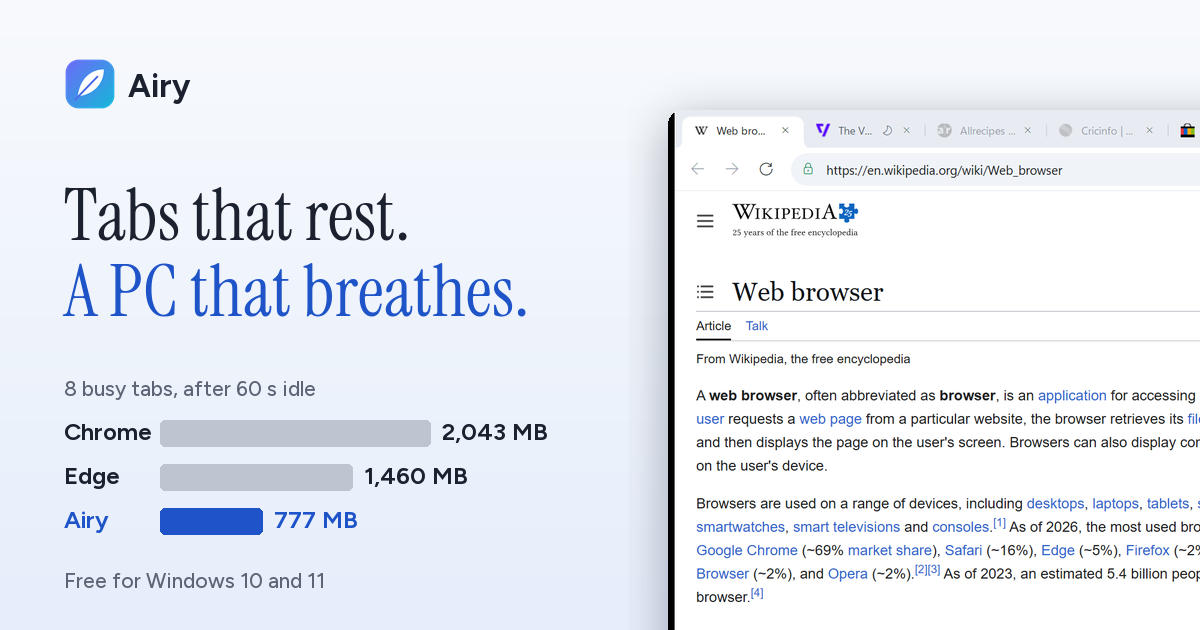
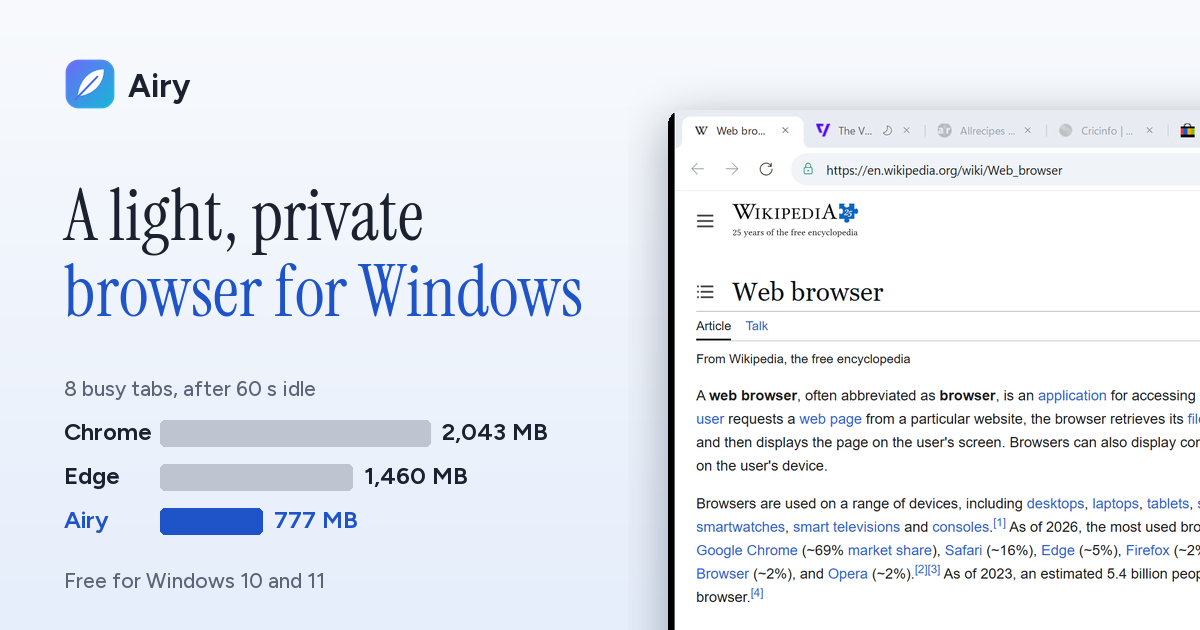
Plain copy: replace slogans with plain statements

Changed region(s): [[0.0308, 0.3016, 0.4933, 0.5127]]

diff --git a/index.html b/index.html
@@ -8,7 +8,7 @@
 <link rel="canonical" href="https://nishants-lab.github.io/airy/">
 <link rel="icon" type="image/png" href="favicon.png">
 <meta property="og:type" content="website">
-<meta property="og:title" content="Airy: tabs that rest, a PC that breathes">
+<meta property="og:title" content="Airy: a light, private browser for Windows">
 <meta property="og:description" content="A free, private browser for Windows. 8 busy tabs: 777 MB in Airy, 2,043 MB in Chrome, 1,460 MB in Edge.">
 <meta property="og:url" content="https://nishants-lab.github.io/airy/">
 <meta property="og:image" content="https://nishants-lab.github.io/airy/assets/og.png">
@@ -43,10 +43,10 @@
   <div class="wrap hero-grid">
     <div class="hero-head">
       <p class="kicker reveal">Free browser for Windows 10 and 11</p>
-      <h1 class="reveal"><span>Tabs that rest.</span> <em>A PC that breathes.</em></h1>
+      <h1 class="reveal"><span>Eight tabs in 777 MB.</span> <em>Chrome used 2,043 MB.</em></h1>
     </div>
     <div class="hero-copy">
-      <p class="lede reveal">Airy runs on the same Chromium engine as Chrome and Edge, so your sites work the same. The difference: background tabs go to sleep after 30 seconds, and ads and trackers are blocked from the first click.</p>
+      <p class="lede reveal">Airy runs on the same Chromium engine as Chrome and Edge, so your sites work the same. The difference: background tabs go to sleep after 30 seconds, and ads and trackers are blocked by default.</p>
       <div class="cta reveal">
         <a class="btn btn-primary" href="https://github.com/nishants-lab/airy/releases/download/v1.0.0/AirySetup-1.0.0.exe"><svg class="win" viewBox="0 0 16 16" aria-hidden="true"><path fill="currentColor" d="M0 0h7.5v7.5H0zM8.5 0H16v7.5H8.5zM0 8.5h7.5V16H0zM8.5 8.5H16V16H8.5z"/></svg>Download for Windows</a>
         <a class="btn btn-quiet" href="#memory">See the numbers</a>
@@ -63,9 +63,9 @@
 <section class="mem" id="memory">
   <div class="wrap">
     <div class="mem-head">
-      <p class="kicker">Measured, not guessed</p>
-      <h2>Same eight tabs.<br><em>A third of the memory.</em></h2>
-      <p class="lede">Chrome keeps most background tabs running. Edge waits 15 minutes before it puts them to sleep. Airy freezes them after 30 seconds and unloads them after 10 minutes, so a busy window stays light.</p>
+      <p class="kicker">Memory test</p>
+      <h2>The same eight tabs <em>in each browser</em></h2>
+      <p class="lede">Chrome keeps most background tabs running. Edge puts them to sleep after 15 minutes. Airy puts them to sleep after 30 seconds and unloads them after 10 minutes.</p>
     </div>
     <ul class="bars" aria-label="Memory used after 60 seconds idle, in megabytes">
       <li class="bar"><div class="name">Chrome 157</div><div class="track"><div class="fill" style="--w:100%"></div></div><div class="val num">2,043<span>MB</span></div></li>
@@ -96,7 +96,7 @@
   <div class="wrap states-grid">
     <div>
       <p class="kicker">How tabs rest</p>
-      <h2 style="margin-top:1.2rem">Out of sight,<br><em>out of memory.</em></h2>
+      <h2 style="margin-top:1.2rem">What happens to <em>a background tab</em></h2>
       <ol class="timeline">
         <li><span class="dot">1</span><div><h3>Live <small>the tab you are on</small></h3><p>Full page in memory. A tab you left less than 30 seconds ago is still live.</p></div></li>
         <li><span class="dot">2</span><div><h3>Sleeping <small>after 30 seconds</small></h3><p>Frozen: no scripts, timers or drawing, and the engine is asked to trim its memory. One click and it is back, instantly.</p></div></li>
@@ -106,7 +106,7 @@
     </div>
     <div class="stack">
       <img src="assets/memory.webp" width="522" height="233" alt="Airy's memory readout: Airy is using 273 MB across 12 processes. Tabs: 1 live, 2 sleeping, 3 unloaded.">
-      <p class="cap">The toolbar always shows what Airy is using, the same number Task Manager shows. Hover for the tab breakdown, click for each process.</p>
+      <p class="cap">The toolbar shows Airy's memory use, the same number Task Manager shows. Hover for the tab breakdown; click for each process.</p>
     </div>
   </div>
 </section>
@@ -114,8 +114,8 @@
   <div class="wrap priv-grid">
     <div class="priv-copy">
       <p class="kicker">Private by default</p>
-      <h2>Brave-style protection, <em>already switched on.</em></h2>
-      <p class="lede">No settings to hunt for. Every protection below is on the moment you open Airy, and the shield shows what was stopped on each page.</p>
+      <h2>Protection that is on <em>from the start</em></h2>
+      <p class="lede">Every protection below is on when you first open Airy. The shield button shows what was blocked on each page. The defaults follow Brave's.</p>
       <img src="assets/protect.webp" width="642" height="365" alt="Airy's Protection panel for a news site: protection on, 2 ads and trackers blocked on this page, fingerprinting protected, tracking prevention strict.">
     </div>
     <ul class="plist">
@@ -126,15 +126,15 @@
       <li><b>Tracking redirects skipped</b><span>Link shims from Google, Facebook, YouTube, Reddit and LinkedIn are bypassed, so you go straight to the real site.</span></li>
       <li><b>Fingerprinting noise</b><span>Canvas, WebGL and audio reads get small per-site noise, and device details are generalised.</span></li>
       <li><b>Global Privacy Control</b><span>Tells every site not to sell or share your data.</span></li>
-      <li><b>WebRTC kept quiet</b><span>Your local IP address is not exposed to pages.</span></li>
-      <li><b>Nothing sent home</b><span>Airy has no telemetry and no account. Search defaults to DuckDuckGo.</span></li>
+      <li><b>Local IP address hidden</b><span>WebRTC does not expose your local IP address to pages.</span></li>
+      <li><b>No telemetry</b><span>Airy sends no usage data and needs no account. Search defaults to DuckDuckGo.</span></li>
       <li><b>Clear on exit</b><span>Optional: wipe cookies, cache and history every time Airy closes.</span></li>
     </ul>
   </div>
   <div class="wrap private">
     <img src="assets/private.webp" width="1200" height="777" alt="An Airy private tab with a violet frame and a note explaining that private tabs are not saved to history.">
     <div>
-      <h3>Private tabs, <em>tinted violet</em> so you always know.</h3>
+      <h3>Private tabs have <em>a violet frame</em></h3>
       <p class="muted" style="margin-top:1rem">Ctrl+Shift+N opens a separate in-memory profile. No history, no saved session, and its cookies are deleted when you close the last private tab.</p>
     </div>
   </div>
@@ -142,7 +142,7 @@
 <section class="compare" id="compare">
   <div class="wrap">
     <p class="kicker">Side by side</p>
-    <h2 style="margin-top:1.2rem">Lighter where it counts. <em>Upfront about the rest.</em></h2>
+    <h2 style="margin-top:1.2rem">Airy, Chrome and Edge <em>compared</em></h2>
     <div class="tbl-wrap">
       <table>
         <thead><tr><th scope="col"><span class="skip">Feature</span></th><th scope="col" class="us">Airy 1.0</th><th scope="col">Chrome</th><th scope="col">Edge</th></tr></thead>
@@ -169,8 +169,8 @@
 <section>
   <div class="wrap fam-grid">
     <div>
-      <p class="kicker">Feels like home</p>
-      <h2 style="margin-top:1.2rem">Everything where <em>your hands expect it.</em></h2>
+      <p class="kicker">Everyday use</p>
+      <h2 style="margin-top:1.2rem">Works like <em>Chrome and Edge</em></h2>
       <ul class="fam-list">
         <li><b>Tabs in the title bar</b><span>Like Chrome and Edge, with Windows 11 Snap Layouts on the maximize button.</span></li>
         <li><b>Light and dark</b><span>Follows your Windows theme and tells sites, or pick one under Appearance.</span></li>
@@ -187,7 +187,7 @@
   <div class="wrap dl-card">
     <div>
       <img class="icon" src="assets/icon-256.png" alt="" width="72" height="72">
-      <h2>Give your PC <em>some air.</em></h2>
+      <h2>Download <em>Airy 1.0</em></h2>
       <p class="lede" style="margin-top:1.2rem">Version 1.0.0. Free, for Windows 10 (version 1903 or later) and Windows 11, 64-bit.</p>
       <div class="req">
         <p>The .NET runtime is included. Airy uses the Microsoft Edge WebView2 Runtime, which Windows 11 includes and most Windows 10 PCs already have; setup links to Microsoft's installer if it is missing.</p>
@@ -211,7 +211,7 @@
 </section>
 <section class="faq" id="faq">
   <div class="wrap faq-grid">
-    <div><p class="kicker">Questions</p><h2 style="margin-top:1.2rem">Good to <em>know.</em></h2></div>
+    <div><p class="kicker">FAQ</p><h2 style="margin-top:1.2rem">Common <em>questions</em></h2></div>
     <div>
       <details><summary>Will my sites work?</summary><p>Yes. Airy draws pages with Microsoft Edge WebView2, the same Chromium engine that runs Edge, and Windows keeps it up to date. Sites that work in Chrome and Edge work in Airy.</p></details>
       <details><summary>What happens to a sleeping tab?</summary><p>It is frozen in place: no scripts, timers or video run until you click it, and then it wakes instantly. After 10 minutes in the background it is unloaded, and clicking it loads the page again. You can change both times under Memory saving, or mark a tab "Keep this tab awake".</p></details>
